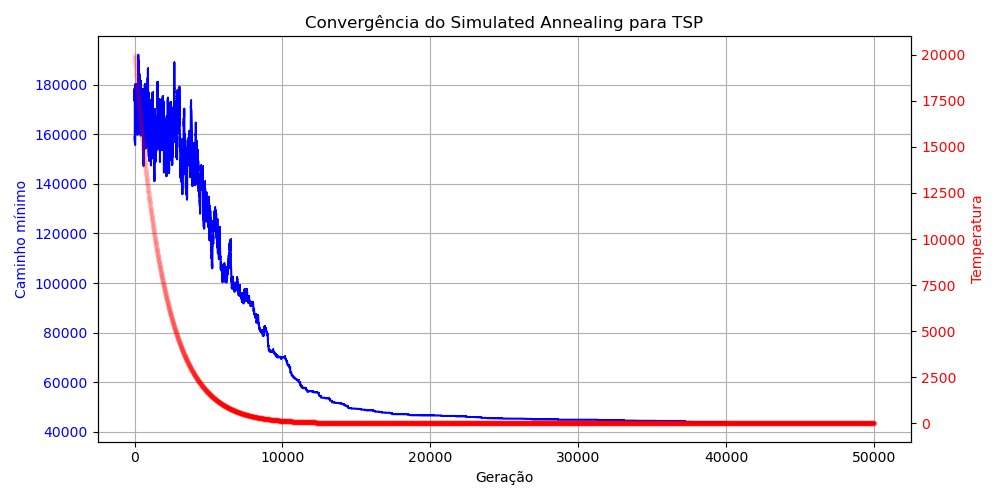
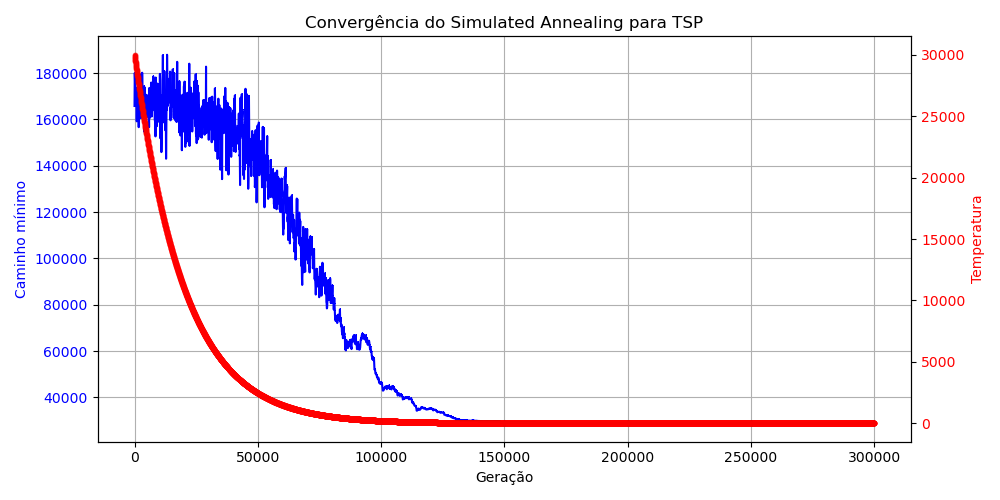
update

diff --git a/src/sa.rs b/src/sa.rs
@@ -20,7 +20,6 @@ fn generate_neighbor(tsp_path: &TSPPath) -> TSPPath {
               break (index_a, index_b);
           }
       };
-
       tsp_path = tsp_path.swap(index_a, index_b);
     }
 
@@ -43,7 +42,7 @@ pub fn run(tsp: &TSP, sa_max: usize, starting_temp: f32, vector: TSPPath, index:
 
     log_data.push(format!("{},{}", generation, best_result));
 
-    let max_generation = 5000;
+    let max_generation = 15000;
 
     while generation < max_generation {
 
@@ -75,7 +74,7 @@ pub fn run(tsp: &TSP, sa_max: usize, starting_temp: f32, vector: TSPPath, index:
 
         // log_data.push(format!("{},{},{}", generation, best_result, temp));
 
-        temp = temp * 0.995;
+        temp = temp * 0.999;
         // temp = starting_temp / (1.0 + (generation as f32).ln());
         // temp = starting_temp * (1.0 - (generation as f32 / max_generation as f32));
         
@@ -119,7 +118,7 @@ pub fn run_multiple_threads(tsp: Arc<TSP>, sa_max: usize, starting_temp: f32, it
         handle.join().unwrap();
     }
 
-    let mut file = File::create(format!("data/boxplot_data_{}_1.csv", tsp.cities.len())).expect("Failed to create file");
+    let mut file = File::create(format!("data/boxplot_data_{}_10.csv", tsp.cities.len())).expect("Failed to create file");
     file.write_all(b"Run,False Clauses\n").unwrap();
 
     let results = results.lock().unwrap();

diff --git a/src/main.rs b/src/main.rs
@@ -15,8 +15,8 @@ use tsp::{TSPPath, TSP};
 // multiplas execucoes: 30 vzs (boxplot)
 
 fn main() {
-    let sa_max = 1;
-    let starting_temp = 20000.0;
+    let sa_max = 20;
+    let starting_temp = 30000.0;
     let iterations = 30;
 
     let files = [
@@ -31,7 +31,7 @@ fn main() {
     for (index, file_path) in files.iter().enumerate() {
         println!("Running {}/{}", index+1, files.len());
         let tsp = TSP::new(file_path);
-        if true {
+        if false {
             let tsp_path = TSPPath::new(&tsp.cities);
     
             let result_vector = run(&tsp, sa_max, starting_temp, tsp_path, 1);

diff --git a/graph_convergencia.py b/graph_convergencia.py
@@ -6,7 +6,7 @@ for file_path in file_paths:
 
   fig, ax1 = plt.subplots(figsize=(10, 5))
 
-  ax1.plot(data["Generation"], data["False Clauses"], marker=",", linestyle="-", color="b", label="Caminho mínimo")
+  ax1.plot(data["Generation"][::100], data["False Clauses"][::100], marker=",", linestyle="-", color="b", label="Caminho mínimo")
   ax1.set_xlabel("Geração")
   ax1.set_ylabel("Caminho mínimo", color="b")
   ax1.tick_params(axis="y", labelcolor="b")
